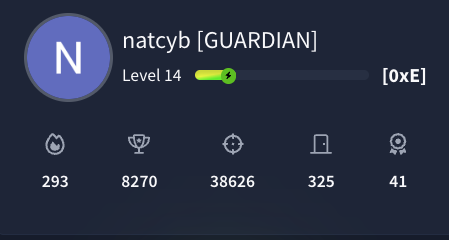
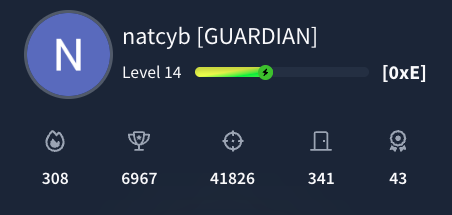
TryHackMe streak update

diff --git a/README.md b/README.md
@@ -8,7 +8,7 @@ My background is QA - since then I've been leaning hard into infrastructure, sec
 
 ## Certifications
 
-CompTIA Security+, AWS Certified Cloud Practitioner, Microsoft Certified: Security, Compliance, and Identity Fundamentals, and the Google Cybersecurity Professional Certificate. I've also been living on TryHackMe: top 1% rank, 325 rooms completed, 293-day streak. Full breakdown, dates, and verification details in [certifications](certifications/README.md).
+CompTIA Security+, AWS Certified Cloud Practitioner, Microsoft Certified: Security, Compliance, and Identity Fundamentals, and the Google Cybersecurity Professional Certificate. I've also been living on TryHackMe: top 1% rank, 341 rooms completed, 308-day streak. Full breakdown, dates, and verification details in [certifications](certifications/README.md).
 
 ---
 

diff --git a/certifications/README.md b/certifications/README.md
@@ -10,7 +10,7 @@
 
 ## TryHackMe Learning Paths
 
-**TryHackMe profile:** top 1% rank, 325 rooms completed, 293-day streak (yes, I'm aware of what that says about my evenings). Last updated: 15.10.2026 - but believe me, I'm still going. 
+**TryHackMe profile:** top 1% rank, 341 rooms completed, 308-day streak (yes, I'm aware of what that says about my evenings). Last updated: 29.10.2026 - but believe me, I'm still going. 
 
 ![TryHackMe profile stats](images/thm_banner.png)
 
